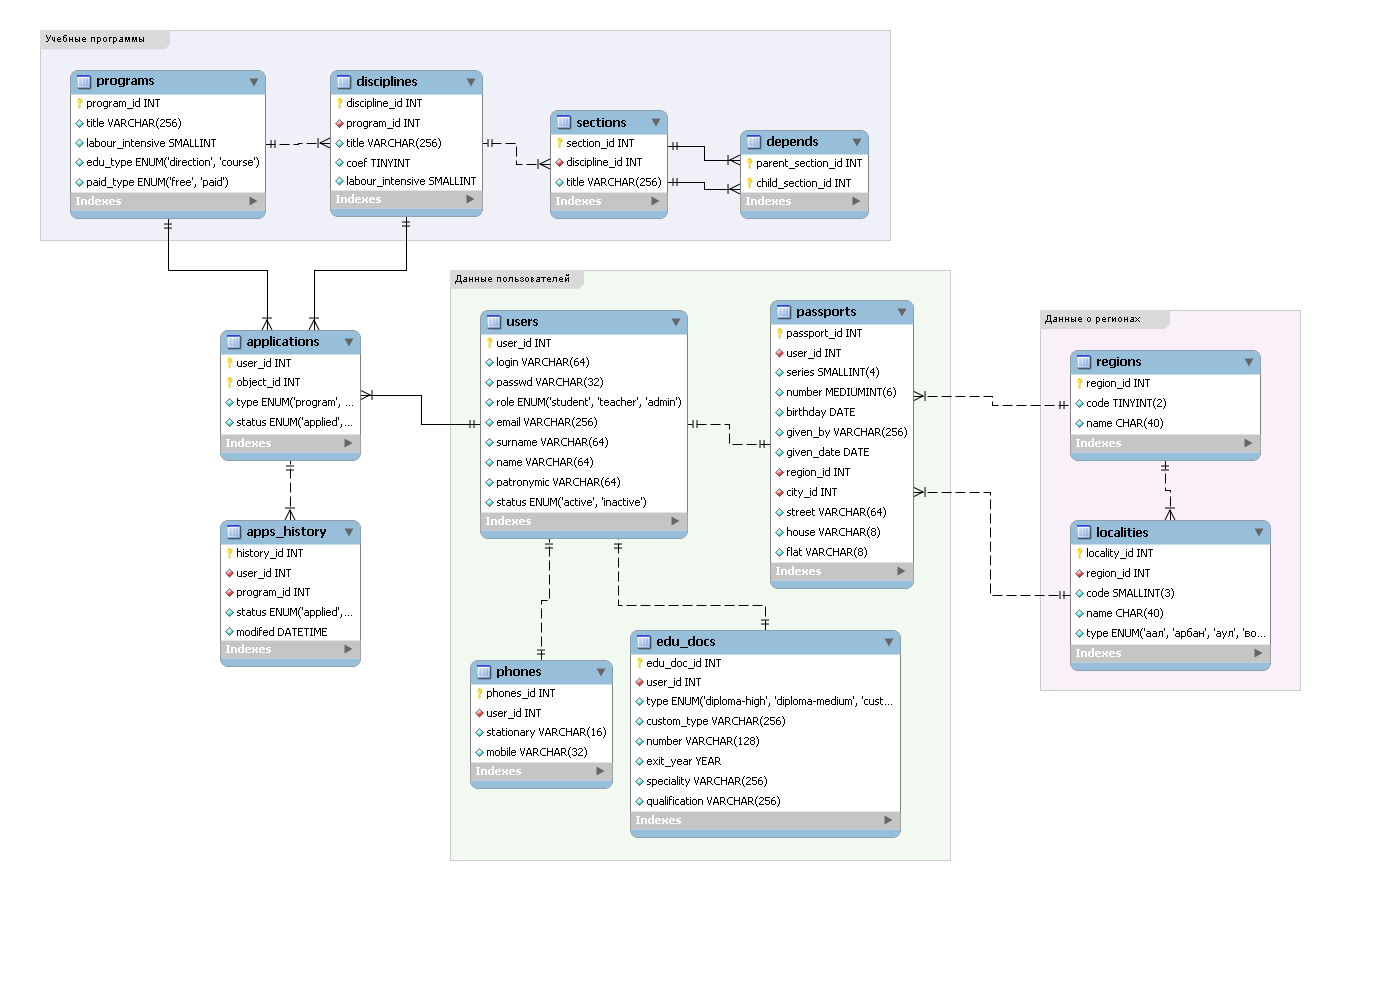
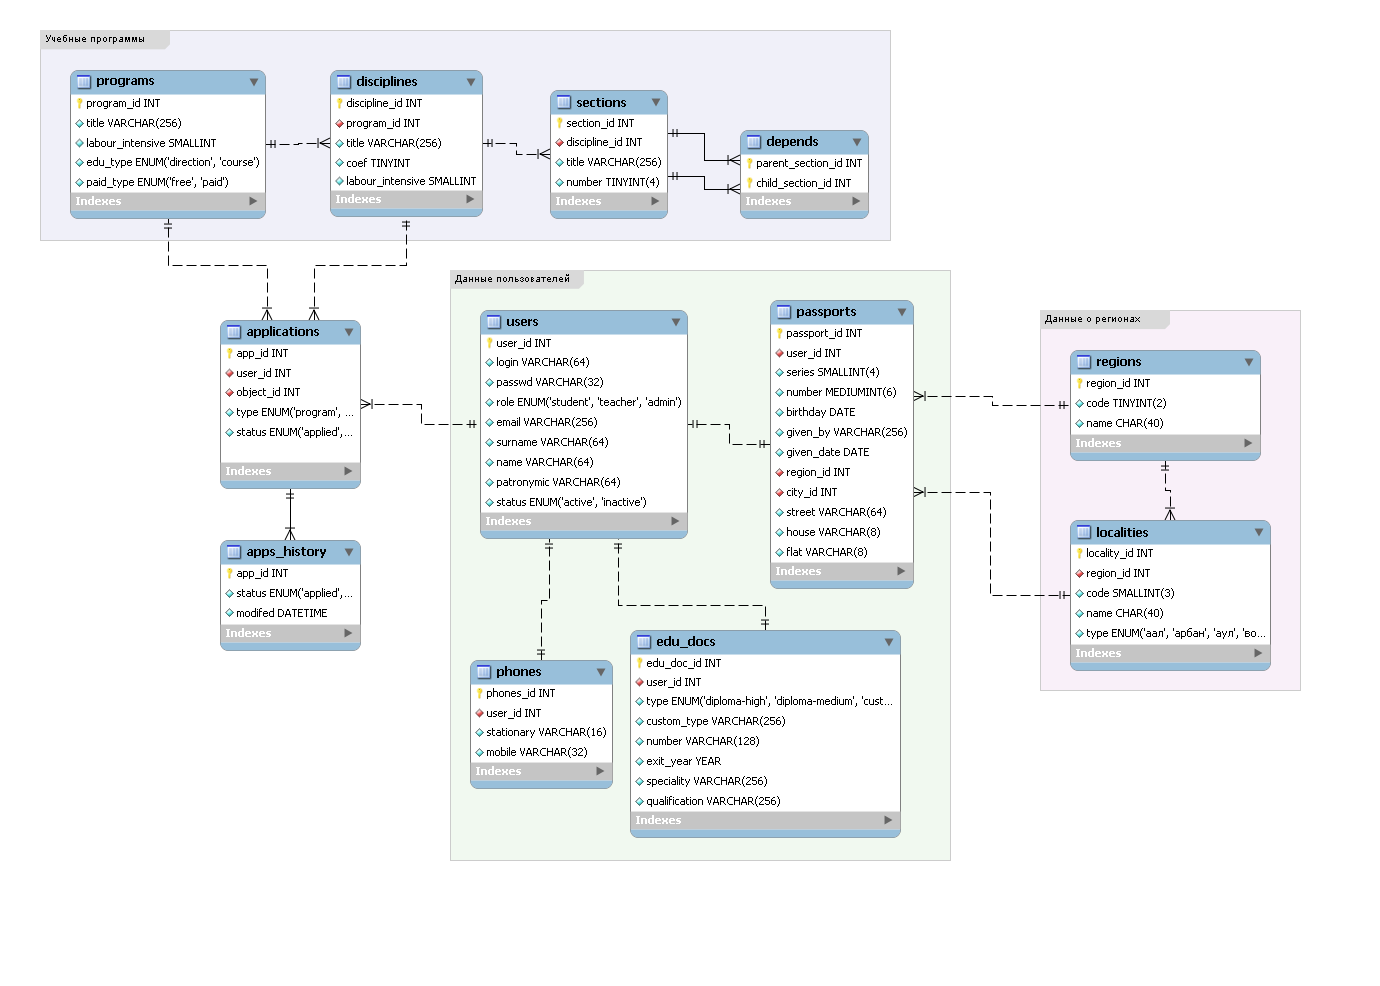
[+] Начало реализации обработки заявок. [*] Обновление схемы БД. [*] Дамп с тестовыми данными.
git-svn-id: http://subversion.assembla.com/svn/remote-edu/trunk@55 8be755f0-7b69-014b-b4a2-75d5e90fc6ab

Changed region(s): [[0.1558, 0.3043, 0.2804, 0.6998], [0.3739, 0.0913, 0.4986, 0.1826]]

diff --git a/private/app/Model/Application.php b/private/app/Model/Application.php
@@ -1,0 +1,134 @@
+<?php
+    
+    /* $Id$ */
+
+    class Model_Application extends Model_Base {
+        /**
+        * Тип заявки: на программу.
+        * 
+        * @var const
+        */
+        const TYPE_PROGRAM = 'program';
+        
+        /**
+        * Тип заявки: на дисциплину.
+        * 
+        * @var const
+        */
+        const TYPE_DISCIPLINE = 'discipline';
+        
+        /**
+        * Статус заявки: подана, на рассмотрении.
+        * 
+        * @var const
+        */
+        const STATUS_APPLIED = 'applied';
+        
+        /**
+        * Создание нового экземпляра класса.
+        * 
+        * @return Model_Application Fluent interface.
+        */
+        public static function create() {
+            return new self();
+        }
+        
+        /**
+        * Подача заявки.
+        * 
+        * @param  int $user_id   Идентификатор пользователя.
+        * @param  int $object_id Идентификатор объекта.
+        * @param  int $type      Тип объекта (программа/дисциплины).
+        * @return void
+        */
+        public function apply($user_id, $object_id, $type) {
+            /**
+            * @todo Проверять на дубликаты заявок.
+            */
+            
+            $sql = '
+                INSERT INTO ' . $this->_tables['applications'] . '
+                (user_id, object_id, type, status)
+                VALUES (:uid, :oid, :type, :status)
+            ';
+            
+            $status = self::STATUS_APPLIED;
+            
+            $values = array(
+                ':uid'    => $user_id,
+                ':oid'    => $object_id,
+                ':type'   => $type,
+                ':status' => $status
+            );
+            
+            $stmt = $this->prepare($sql);
+            $stmt->execute($values);
+                        
+            /* Добавляем запись в историю прохождения заявки */
+            $app_id = $this->lastInsertId();
+            $this->_addHistory($app_id, $status);
+        }
+        
+        /**
+        * Получение списка заявок пользователя с текущими статусами и названиями
+        * программ/дисциплин.
+        * 
+        * @param  int $user_id Идентификатор пользователя.
+        * @return array
+        */
+        public function getAppsInfo($user_id) {
+            $sql = '
+                SELECT a.app_id, a.status,
+                       p.title AS program_title,
+                       d.title AS discipline_title
+                FROM ' . $this->_tables['applications'] . ' a
+                
+                LEFT JOIN ' . $this->_tables['programs'] . ' p
+                ON a.type = :type_program AND
+                   p.program_id = a.object_id
+                
+                LEFT JOIN ' . $this->_tables['disciplines'] . ' d
+                ON a.type = :type_discipline AND
+                   d.discipline_id = a.object_id 
+                
+                WHERE user_id = :uid
+            ';
+            
+            $values = array(
+                ':uid'             => $user_id,
+                ':type_program'    => self::TYPE_PROGRAM,
+                ':type_discipline' => self::TYPE_DISCIPLINE
+            );
+            
+            $stmt = $this->prepare($sql);
+            $stmt->execute($values);
+            
+            $apps = $stmt->fetchAll(Db_PdO::FETCH_ASSOC);
+            return $apps;
+        }
+        
+        /**
+        * Добавление записи об истории обработки заявки. Сохраняет новый статус
+        * заявки и текущую дату.
+        * 
+        * @param  int    $app_id Идентификатор заявки.
+        * @param  string $status Статус, который получила заявка.
+        * @return boolean
+        */
+        protected function _addHistory($app_id, $status) {
+            $sql = '
+                INSERT INTO ' . $this->_tables['apps_history'] . '
+                VALUES (:app_id, :status, NOW())
+            ';
+            
+            $values = array(
+                ':app_id' => $app_id,
+                ':status' => $status
+            );
+            
+            return $this->prepare($sql)
+                        ->execute($values);
+        }
+    }
+
+?>

diff --git a/private/app/Controller/Applications.php b/private/app/Controller/Applications.php
@@ -9,27 +9,44 @@
             $this->render();
         }
         
+        /**
+        * Подача заявки на программу/дисциплину.
+        */
         public function action_apply() {
             $user = Model_User::create();
-                    
-            if (false === ($udata = $user->getAuth())) {                               
-                $this->flash('Вы не авторизованы', self::RETURN_URL);
+            $udata = (object) $user->getAuth();
+            
+            if (!$user->isExtendedProfileSet($udata->user_id))
+            {
+                $msg = 'Заполните, пожалуйста, свой профиль';
+                $link = '/users/profile_extended/';
+                $this->flash($msg, $link);
             }
             
-            $udata = (object) $udata;
+            $object_id = 2;
+            $type = Model_Application::TYPE_DISCIPLINE;
+            
+            $app = Model_Application::create();       
+            $app->apply($udata->user_id, $object_id, $type);
+            
+            $this->flash('Заявка подана', self::RETURN_URL);
+        }
+        
+        /**
+        * Просмотр статуса заявок слушателем.
+        */
+        public function action_list() {
+            $user = Model_User::create();
+            $udata = (object) $user->getAuth();
             
             /**
-            * @todo ACL.
+            * @todo Paginator.
             */
-            if (Model_User::ROLE_STUDENT !== $udata->role) {
-                $this->flash('Вы не являетесь слушателем', self::RETURN_URL);
-            }
+            $app = Model_Application::create();
+            $apps = $app->getAppsInfo($udata->user_id);
+            $this->set('applications', $apps);
             
-            if (!$user->isExtendedProfileSet($udata->user_id)) {
-                $this->flash('А у вас профиль не заполнен :-p', self::RETURN_URL);
-            }
-            
-            $this->flash('Ок', self::RETURN_URL);
+            $this->render();
         }
     }
     

diff --git a/private/app/Model/Base.php b/private/app/Model/Base.php
@@ -1,0 +1,14 @@
+<?php
+    
+    /* $Id$ */
+
+    abstract class Model_Base extends Mvc_Model_Abstract {
+        protected $_tables = array(
+            'applications' => 'applications',
+            'apps_history' => 'apps_history',
+            'programs'     => 'programs',
+            'disciplines'  => 'disciplines'
+        );
+    }
+
+?>

diff --git a/private/app/Controller/Users.php b/private/app/Controller/Users.php
@@ -269,10 +269,6 @@
         }
         
         public function action_profile_extended() {
-            /**
-            * @todo ACL.
-            */
-            
             $user = Model_User::create();
             $udata = (object) $user->getAuth();
             
